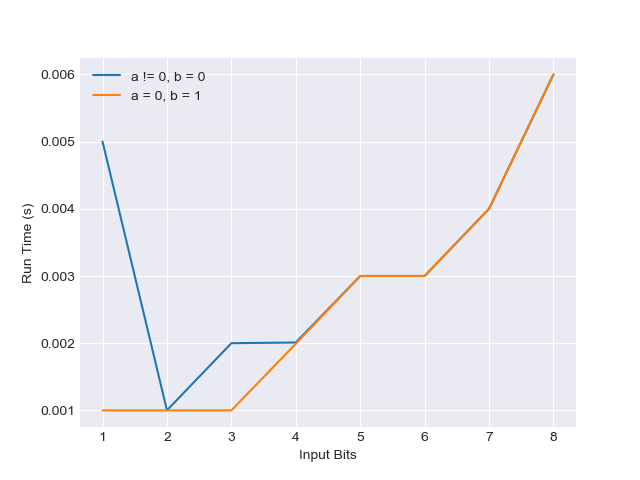
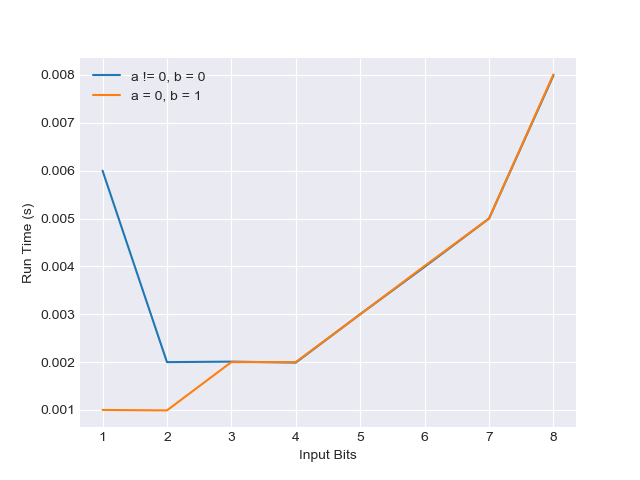
Finallized BV

diff --git a/Cirq/DJ-BV/time_measurement/measure_bv.py b/Cirq/DJ-BV/time_measurement/measure_bv.py
@@ -11,12 +11,13 @@ import matplotlib.pyplot as plt
 def run_bv(n, a, b):
     # setup the experiment
     bv = Bernstein_Vazirani(n)
-    circuit = bv.build_circuit(a, b)
 
     # start simulator
     simulator = cirq.Simulator()
+
     t = time.time()
-    result = simulator.run(circuit, repetitions=50)
+    circuit = bv.build_circuit(a, b)
+    result = simulator.run(circuit, repetitions=1)
     return_time = time.time() - t
     print(result)
 
